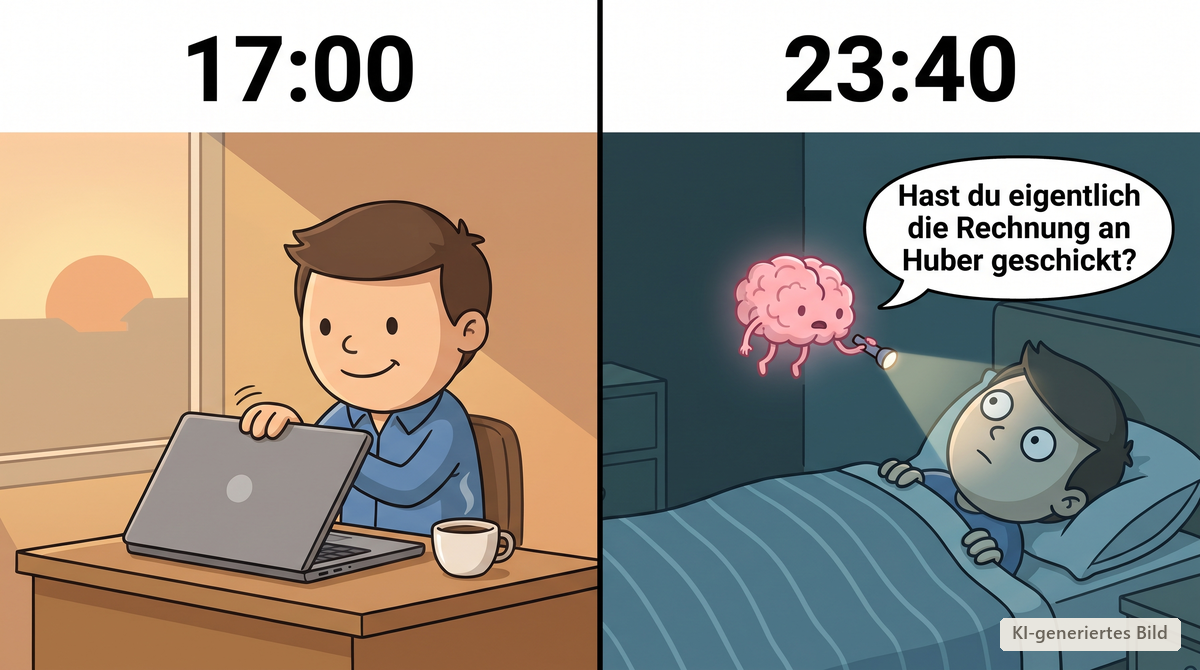
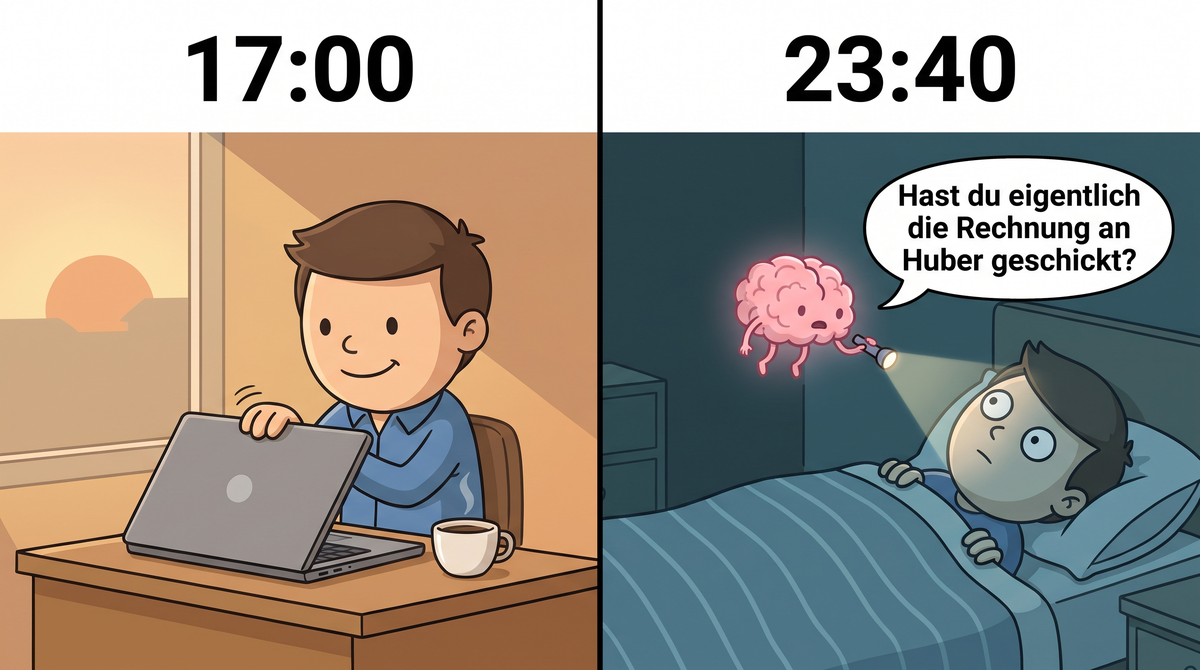
Images: AI label on the Merak cover, none on the newsletter meme
Ajdin 2026-10-29: Ratgeber covers with a realistic scene carry the small
"KI-generiertes Bild" label inside the visible 21:9 band; newsletter memes
carry none. Rule recorded in CLAUDE.md and image_prompt.md section 9.

Changed region(s): [[0.8325, 0.9254, 0.9867, 0.9851]]

diff --git a/CLAUDE.md b/CLAUDE.md
@@ -20,7 +20,7 @@ Built, merged and live; work since launch is copy + design refinement. **Kontakt
 **KI-Kennzeichnung (Art. 50 KI-VO, anwendbar seit 2026-08-02).** Ratgeber und Newsletter brauchen **kein** KI-Label, aus zwei unabhängigen Gründen: keine „Angelegenheiten von öffentlichem Interesse“ (zielt auf Journalismus, nicht auf „Was kostet …“), **und** Art. 50 Abs. 4 b nimmt menschlich geprüfte Texte mit **benannter** redaktioneller Verantwortung aus. Deshalb steht **V.i.S.d.P. Ajdin Dzafic** im Impressum: die Benennung muss *vor* der Veröffentlichung stehen, ein nachträglicher Footer-Disclaimer reicht nicht. `/prozess-check` ist deterministisch → keine Pflicht. Belege: [KI-Transparenzpflichten](../Knowledge/Compliance/KI-Transparenzpflichten.md).
 
 **Bildwelt: Wasser generiert, Gründer echt** (geprüft 2026-08-06, Fotos 2026-10-01). Landschafts-/Wasserbilder und die vier Über-mich-Clips sind KI-generiert ([image_prompt.md](image_prompt.md)); **kein Label nötig**, Art. 50 Abs. 4a greift erst bei erkennbar **realem** Bezug ([KI-Transparenzpflichten §4a](../Knowledge/Compliance/KI-Transparenzpflichten.md)). ⚠ Unsere `sharp`/ffmpeg-Konvertierung strippt Metadaten: **nie behaupten**, Googles maschinenlesbare Markierung sei intakt.
-- **Kein KI-Hinweis auf der Seite (Entscheid Ajdin, 2026-10-01):** der `/ueber-mich`-Satz und der Impressum-`Bildnachweis` sind raus, die UWG-§5-Nähe (generierte Quelle neben Ich-Erzählung) ist bewusst in Kauf genommen. Ein Satz „keine realen Personen“ wäre neben den echten Fotos falsch; `legal.test.ts` + `ueber-mich/page.test.tsx` pinnen, dass nichts davon zurückkommt. Ein Label **im Bild** (Ecke) erst, wenn ein KI-Asset Reales zeigt (künftige Ad-Creatives).
+- **Kein KI-Hinweis auf der Seite (Entscheid Ajdin, 2026-10-01):** der `/ueber-mich`-Satz und der Impressum-`Bildnachweis` sind raus, die UWG-§5-Nähe (generierte Quelle neben Ich-Erzählung) ist bewusst in Kauf genommen. Ein Satz „keine realen Personen“ wäre neben den echten Fotos falsch; `legal.test.ts` + `ueber-mich/page.test.tsx` pinnen, dass nichts davon zurückkommt. Ein Label **im Bild** (Ecke) erst, wenn ein KI-Asset Reales zeigt (künftige Ad-Creatives). **Ausnahme Ratgeber-Cover (Ajdin 2026-10-29):** ein Cover mit realistischer Szene (erstes: „Was heißt eigentlich Merak?“, Kaffee im Garten neben einer Ich-Erzählung) trägt das kleine „KI-generiertes Bild“-Label unten rechts **im Bild**; die abstrakten Wasser-Cover bleiben ohne. ⚠ Das Cover läuft im `PageImage` als `aspect-[21/9]` mit `object-cover`: bei einer 16:9-Datei (1376×768) fallen oben und unten je ~89 px weg, das Label muss also im sichtbaren Band sitzen (Unterkante ≤ y 679 minus Rand). Newsletter-Memes tragen kein Label (Ajdin 2026-10-29).
 - **Ausnahme Meinung-Cover (2026-10-08, Ajdin):** Meinung articles may carry an absurd AI scene instead of the dark water look, even with photoreal but **non-real** people (first case: the robot Betriebsrat). Never a real or look-alike person: a Schwarzenegger-like draft was dropped (§ 22 KUG, Art. 50 deepfake label).
 - **Gründerfotos:** Originale git-ignored in `Images/fotos-ajdin/{tshirt,hemd,anzug}/` (`ajdin-<outfit>-<pose>-<rahmen>-<nr>.jpg`; `…-132-retusche.jpg` = Hemdlücke wegretuschiert); 4:5-WebP in `public/images/portrait-{stehend,sitzend}.webp`, definiert in `src/lib/portraits.ts` (echter Alt-Text). **Stehend** = `PageHero`-Prop `portrait` neben dem Lead auf `/ueber-mich`; **sitzend** = fest in **jedem** `ClosingCta`. Kein Fotografen-Credit nötig; ein Porträt wird nie generiert.
 

diff --git a/image_prompt.md b/image_prompt.md
@@ -110,6 +110,8 @@ Legal pages (`/impressum`, `/datenschutz`) and `/newsletter/bestaetigt` get no i
 
 Banner above the article title; cool-dominant, low contrast + dark so a German headline reads over it.
 
+**AI label (Ajdin 2026-10-29):** a cover showing a realistic scene (not the abstract water) gets the small „KI-generiertes Bild“ label burned in bottom right, inside the visible 21:9 band (the page crops ~89 px off top and bottom of a 1376×768 file). Style as `Knowledge/marketing/linkedin/label_ai.py`. Abstract water covers stay unlabelled.
+
 ### Base prompt
 > Minimal fine-art abstract photograph of calm deep teal-petrol water with **[MOTIF]**, very soft and out of focus, low contrast, one small warm amber-honey highlight, lots of dark calm negative space for a headline to sit over. Muted, premium, meditative, cool-dominant palette: deep teal-navy and petrol with a single warm accent. No people, no text, no letters, no logos, no watermark. 16:9 aspect ratio.
 
